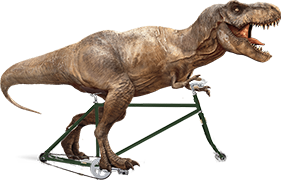
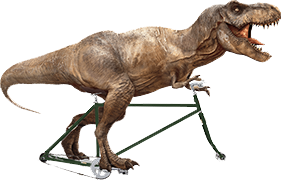
gameobjectista periytyvä playr luotu. playerilla on placehoder textuuri itsehahmolle ja renkaille sekä vastaavat bodyt, jotka on liitetty wheelJointeilla

diff --git a/core/src/com/mygdx/game/Player.java b/core/src/com/mygdx/game/Player.java
@@ -1,0 +1,128 @@
+package com.mygdx.game;
+
+import com.badlogic.gdx.graphics.Texture;
+import com.badlogic.gdx.math.Vector2;
+import com.badlogic.gdx.physics.box2d.Body;
+import com.badlogic.gdx.physics.box2d.BodyDef;
+import com.badlogic.gdx.physics.box2d.CircleShape;
+import com.badlogic.gdx.physics.box2d.FixtureDef;
+import com.badlogic.gdx.physics.box2d.Joint;
+import com.badlogic.gdx.physics.box2d.PolygonShape;
+import com.badlogic.gdx.physics.box2d.World;
+import com.badlogic.gdx.physics.box2d.joints.WheelJoint;
+import com.badlogic.gdx.physics.box2d.joints.WheelJointDef;
+
+public class Player extends GameObject {
+
+
+    World world;
+    Body frontWheel;
+    Body rearWheel;
+    Texture wheel;
+    float rwRotation;
+    float fwRotation;
+
+    public Player(JDCEGame game) {
+
+        super(game);
+        rwRotation=0;
+        fwRotation=0;
+        setTexture(new Texture("noweeler.png"));
+        wheel = new Texture("rengas.png");
+        float ww = wheel.getWidth()/game.PIXELS_TO_METERS;
+        float wh = wheel.getHeight()/game.PIXELS_TO_METERS;
+        world = game.world;
+        x = game.worldWidth/3;
+        y = game.worldHeight/2;
+
+
+        BodyDef bodyDef = new BodyDef();
+        bodyDef.type = BodyDef.BodyType.DynamicBody;
+        bodyDef.position.set((getX() + getWidth()/2),
+                (getY() + getHeight()/2));
+        Vector2[] vertices;
+        vertices= new Vector2[] {new Vector2(-0.5f,-0.8f),new Vector2(-1.4f,0.2f),
+                new Vector2(1.3f,0.8f), new Vector2(1.3f,0.6f),new Vector2(0.5f,0.4f)};
+        body = world.createBody(bodyDef);
+
+        PolygonShape shape = new PolygonShape();
+        shape.set(vertices);
+
+        FixtureDef fixtureDef = new FixtureDef();
+        fixtureDef.shape = shape;
+        fixtureDef.density = 0.1f;
+        fixtureDef.restitution = 0.5f;
+
+        body.createFixture(fixtureDef);
+        shape.dispose();
+        setBody(body);
+
+        rearWheel=createSphere(BodyDef.BodyType.DynamicBody,x,y,1,0.5f,1f,ww/2);
+        frontWheel=createSphere(BodyDef.BodyType.DynamicBody,x+getWidth(),y,1,0.5f,1f,ww/2);
+
+        WheelJointDef rearWheelJointDef = new WheelJointDef();
+        rearWheelJointDef.bodyA=body;
+        rearWheelJointDef.bodyB=rearWheel;
+        rearWheelJointDef.collideConnected=false;
+        rearWheelJointDef.localAnchorA.set(-1f,-0.7f);
+        //rearWheelJointDef.localAnchorB.set(0,0);
+        rearWheelJointDef.motorSpeed = -1f;
+        rearWheelJointDef.enableMotor = true;
+        rearWheelJointDef.maxMotorTorque = 50f;
+
+
+        Joint rearWheelJoint;
+        rearWheelJoint = world.createJoint(rearWheelJointDef);
+
+        WheelJointDef frontWheelJointDef = new WheelJointDef();
+        frontWheelJointDef.bodyA=body;
+        frontWheelJointDef.bodyB=frontWheel;
+        frontWheelJointDef.collideConnected=false;
+        frontWheelJointDef.localAnchorA.set(0.9f,-0.7f);
+        //frontWheelJointDef.localAnchorB.set(0,0);
+
+
+        Joint frontWheelJoint;
+        frontWheelJoint = world.createJoint(frontWheelJointDef);
+    }
+
+    @Override
+    public void draw(){
+        super.draw();
+        float ww = wheel.getWidth()/game.PIXELS_TO_METERS;
+        float wh = wheel.getHeight()/game.PIXELS_TO_METERS;
+        batch.draw(wheel, rearWheel.getPosition().x-(ww/2), rearWheel.getPosition().y-(wh/2),ww/2, wh/2,
+                ww,wh,1,1, rwRotation,0,0, wheel.getWidth(), wheel.getHeight(),false,false);
+
+        batch.draw(wheel, frontWheel.getPosition().x-(ww/2), frontWheel.getPosition().y-(wh/2),ww/2, wh/2,
+                ww,wh,1,1, fwRotation,0,0, wheel.getWidth(), wheel.getHeight(),false,false);
+    }
+
+    @Override
+    public void update(){
+        super.update();
+        fwRotation=(float)(Math.toDegrees(frontWheel.getAngle()));
+        rwRotation= (float)(Math.toDegrees(rearWheel.getAngle()));
+    }
+
+
+    private Body createSphere(BodyDef.BodyType type, float x, float y, float d, float r, float f, float radius) {
+        BodyDef bodyDef = new BodyDef();
+        bodyDef.type = type;
+        bodyDef.position.set(x,y);
+        bodyDef.angle=0;
+        Body ball = world.createBody(bodyDef);
+
+        FixtureDef fixtureDef=new FixtureDef();
+        fixtureDef.density=d;
+        fixtureDef.restitution=r;
+        fixtureDef.friction=f;
+        fixtureDef.shape=new CircleShape();
+        fixtureDef.shape.setRadius(radius);
+
+        ball.createFixture(fixtureDef);
+        fixtureDef.shape.dispose();
+
+        return ball;
+    }
+}

diff --git a/core/src/com/mygdx/game/JDCEGame.java b/core/src/com/mygdx/game/JDCEGame.java
@@ -34,6 +34,7 @@ public class JDCEGame extends ApplicationAdapter implements InputProcessor {
 	BitmapFont font;
 	GameObject testObject;
     protected static PlatformResolver m_platformResolver = null;
+    Player player;
 
 
 	float torque = 0.0f;
@@ -54,33 +55,10 @@ public class JDCEGame extends ApplicationAdapter implements InputProcessor {
         camera = new OrthographicCamera();
         camera.setToOrtho(false,worldWidth,worldHeight);
 
-
-
 		world = new World(new Vector2(0, -1f),true);
+        player = new Player(this);
 
-        testObject= new GameObject(this);
-        testObject.setX(camera.viewportWidth/2);
-        testObject.setY(camera.viewportHeight/2);
-        testObject.setTexture(new Texture("noweeler.png"));
-        BodyDef bodyDef = new BodyDef();
-		bodyDef.type = BodyDef.BodyType.DynamicBody;
-		bodyDef.position.set((testObject.getX() + testObject.getWidth()/2),
-				(testObject.getY() + testObject.getHeight()/2));
 
-		body = world.createBody(bodyDef);
-
-		PolygonShape shape = new PolygonShape();
-		shape.setAsBox(testObject.getWidth()/2, testObject.getHeight()
-				/2);
-
-		FixtureDef fixtureDef = new FixtureDef();
-		fixtureDef.shape = shape;
-		fixtureDef.density = 0.1f;
-		fixtureDef.restitution = 0.5f;
-
-		body.createFixture(fixtureDef);
-		shape.dispose();
-		testObject.setBody(body);
 
 		BodyDef bodyDef2 = new BodyDef();
 		bodyDef2.type = BodyDef.BodyType.StaticBody;
@@ -115,9 +93,10 @@ public class JDCEGame extends ApplicationAdapter implements InputProcessor {
 		// Step the physics simulation forward at a rate of 60hz
 		world.step(1f/60f, 6, 2);
 
-		body.applyTorque(torque,true);
 
-		testObject.update();
+
+
+		player.update();
 
 		Gdx.gl.glClearColor(1, 1, 1, 1);
 		Gdx.gl.glClear(GL20.GL_COLOR_BUFFER_BIT);
@@ -126,12 +105,10 @@ public class JDCEGame extends ApplicationAdapter implements InputProcessor {
 		debugMatrix = batch.getProjectionMatrix();
 		batch.begin();
 
-        testObject.draw();
 
-		font.draw(batch,
-				"Restitution: " + body.getFixtureList().first().getRestitution(),
-				-Gdx.graphics.getWidth()/2,
-				Gdx.graphics.getHeight()/2 );
+        player. draw();
+
+
 		batch.end();
 
 		debugRenderer.render(world, debugMatrix);

diff --git a/core/src/com/mygdx/game/GameObject.java b/core/src/com/mygdx/game/GameObject.java
@@ -6,15 +6,15 @@ import com.badlogic.gdx.physics.box2d.Body;
 
 public class GameObject {
 
-    private Texture texture;
-    private Body body;
-    private Float x;
-    private Float y;
+    protected Texture texture;
+    protected Body body;
+    protected Float x;
+    protected Float y;
     private Float width;
     private Float height;
-    private Batch batch;
-    private float rotation;
-    private JDCEGame game;
+    protected Batch batch;
+    protected float rotation;
+    protected JDCEGame game;
 
 
     public GameObject(JDCEGame game){
